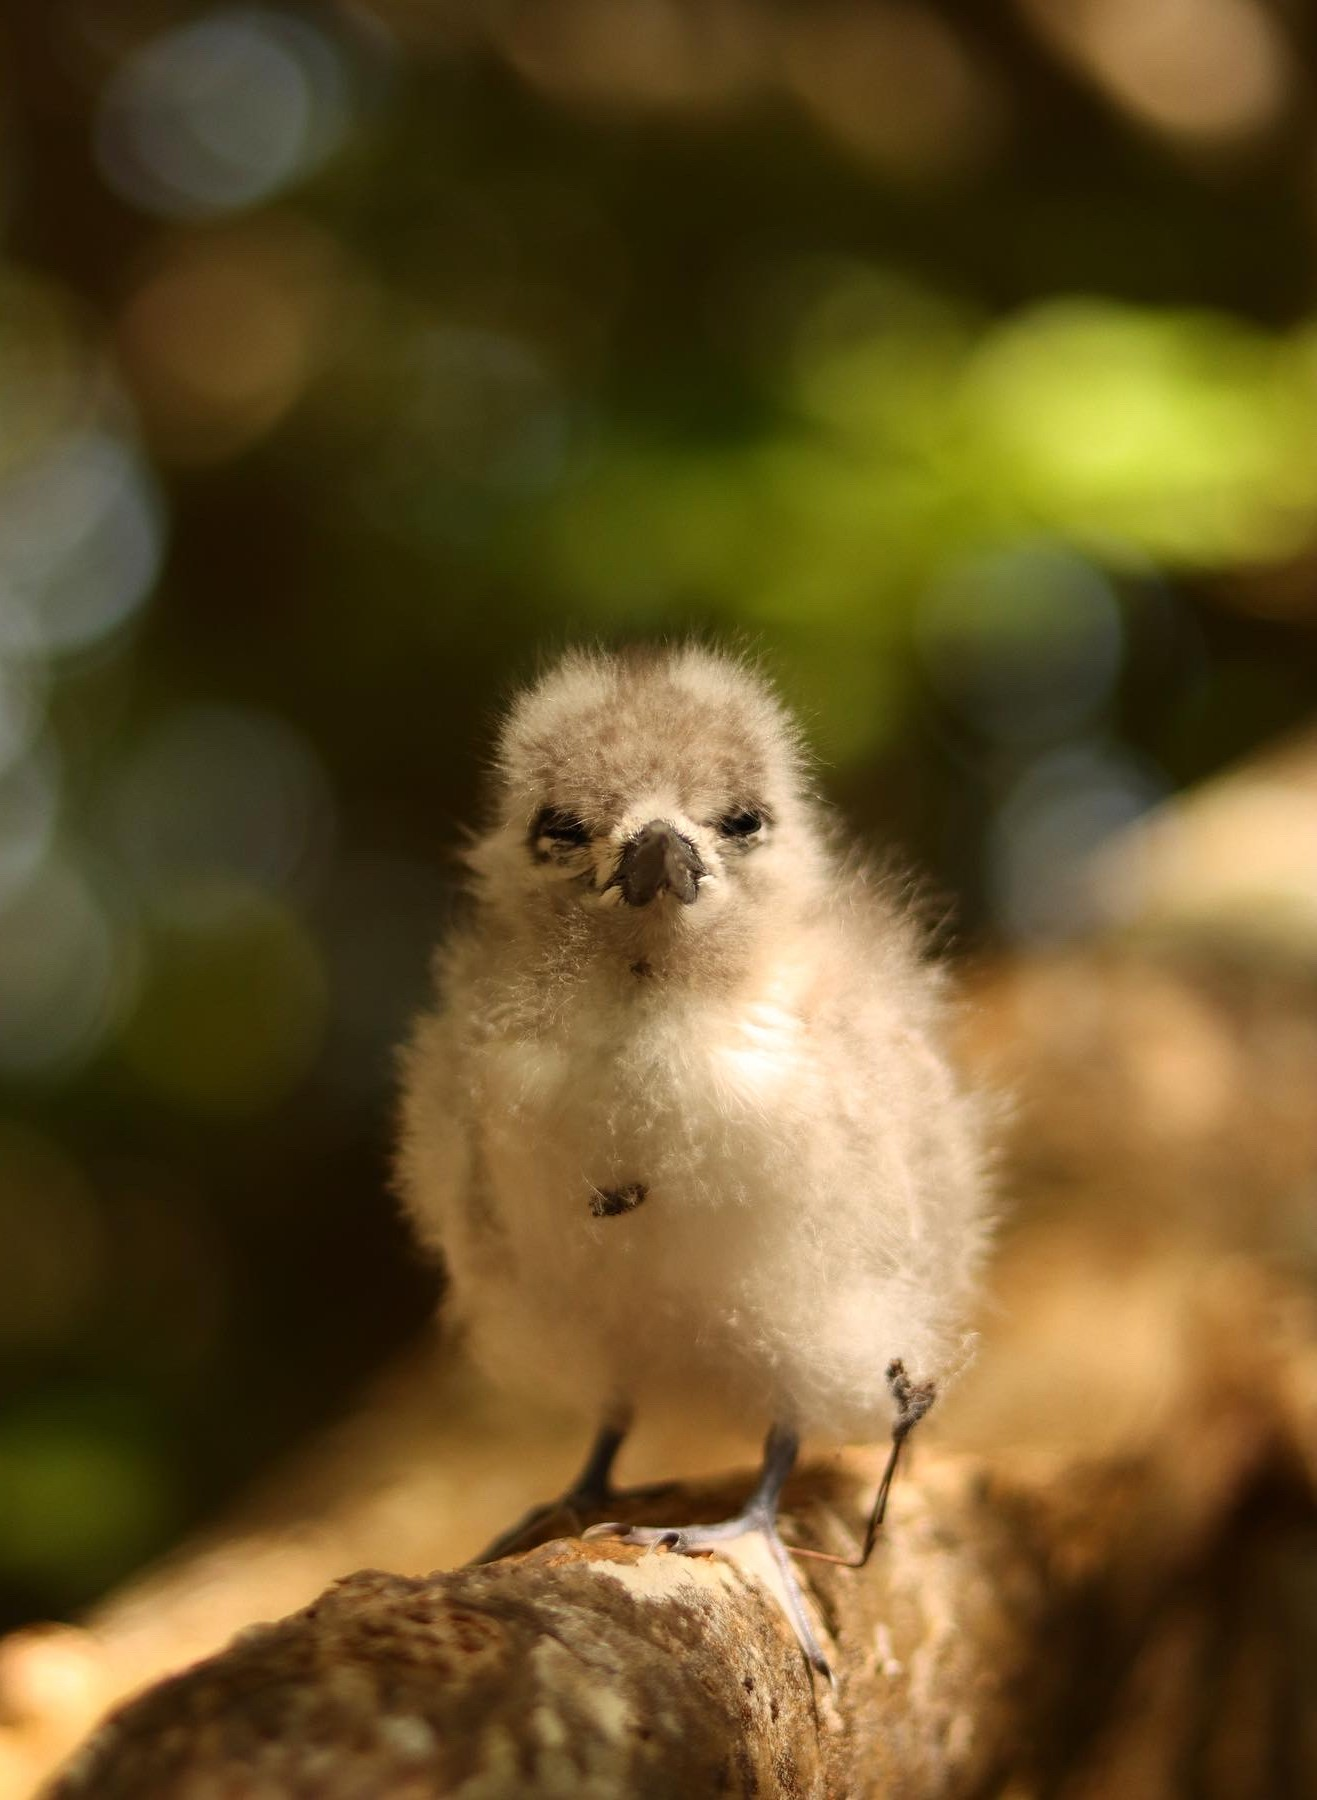
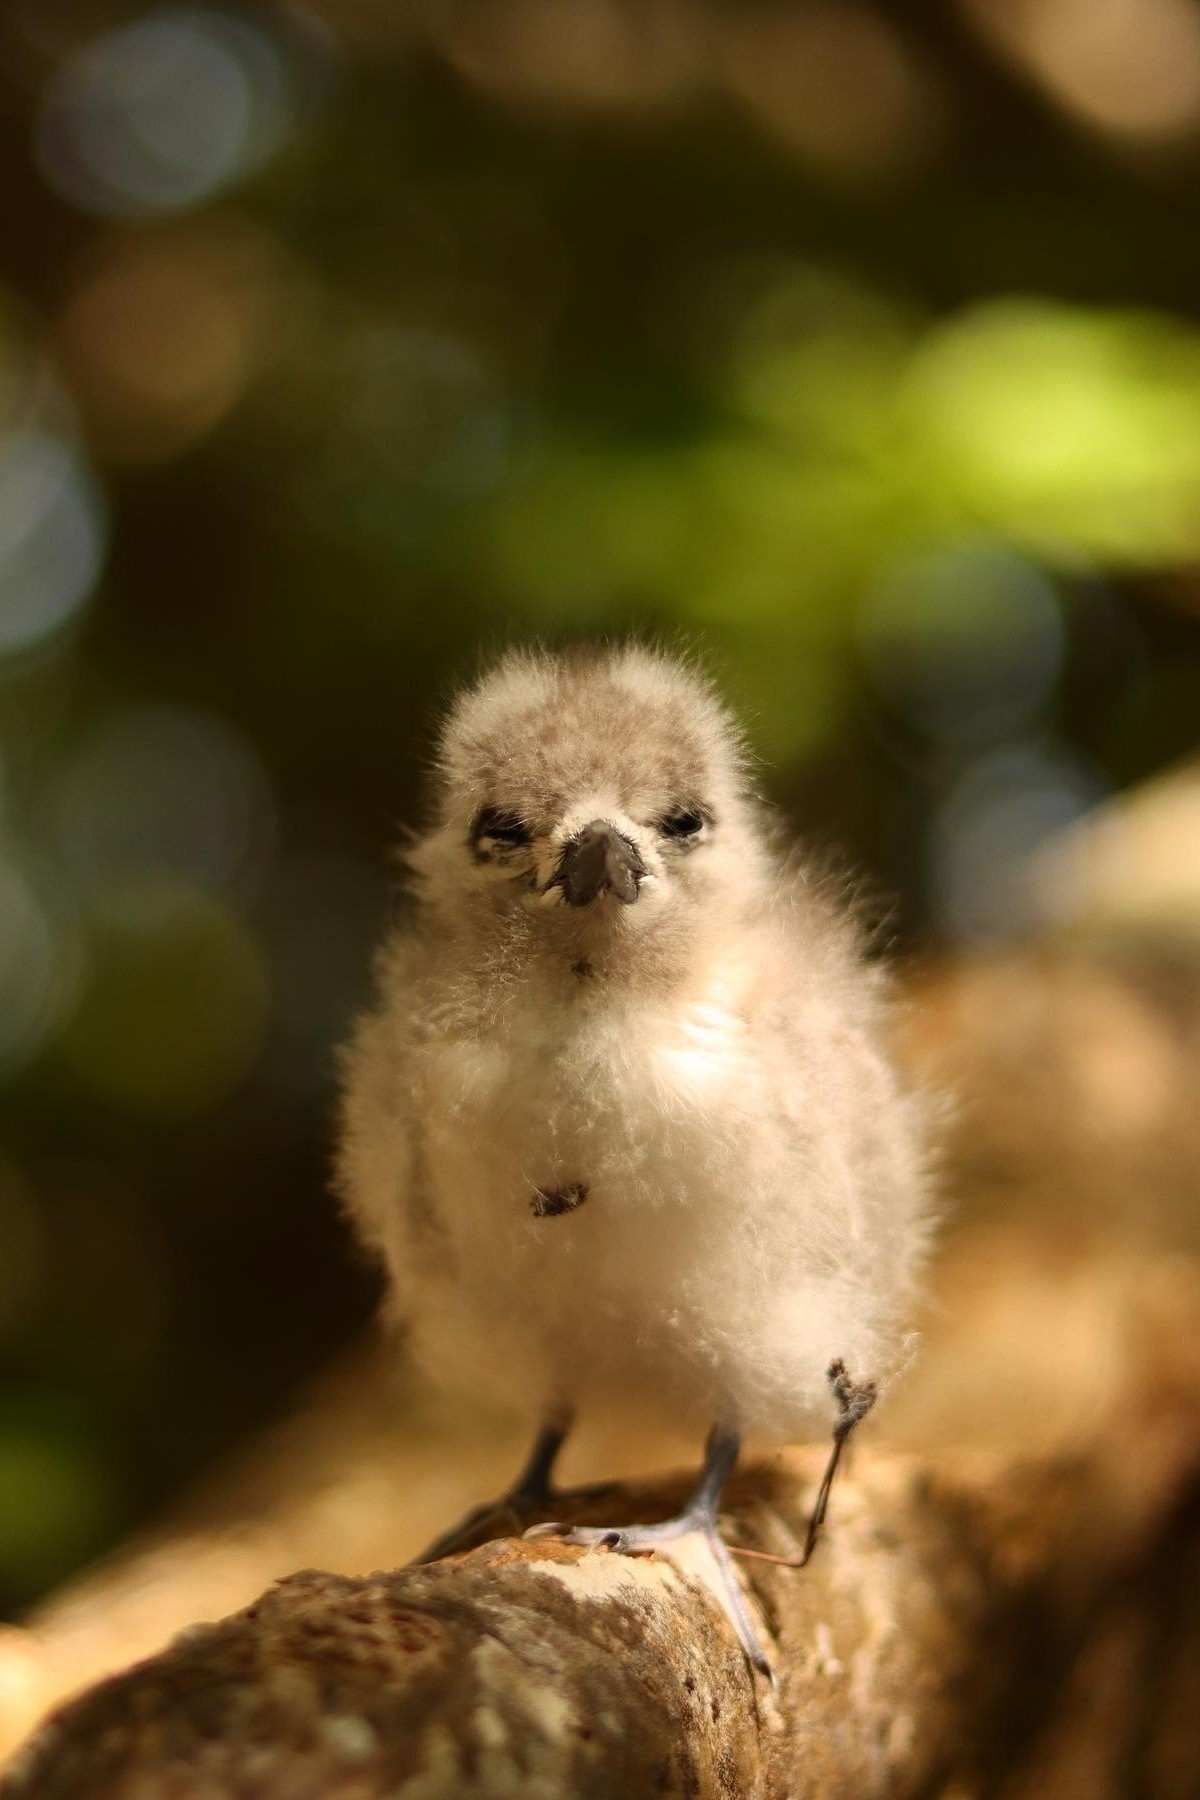
image crop+ about update

diff --git a/index.html b/index.html
@@ -24,7 +24,7 @@
 							<li><a href="#intro">Welcome test</a></li>
 							<li><a href="#one">research</a></li>
 							<li><a href="#two">photography</a></li>
-							<li><a href="#three">portfolio</a></li>
+							<li><a href="#three">About</a></li>
 						</ul>
 					</nav>
 				</div>
@@ -76,7 +76,7 @@
 				<!-- Three -->
 					<section id="three" class="wrapper style1 fade-up">
 						<div class="inner">
-							<h2>Portfolio</h2>
+							<h2>About</h2>
 							<div class="split style1">
 								<section>
 									<form method="post" action="#">
@@ -103,26 +103,21 @@
 									<ul class="contact">
 										<li>
 											<h3>Address</h3>
-											<span>12345 Somewhere Road #654<br />
-											Nashville, TN 00000-0000<br />
-											USA</span>
+											<span>B.P. 6570 - 98702 Faa’a<br />
+											Tahiti<br />
+											French Polynesia</span>
 										</li>
 										<li>
 											<h3>Email</h3>
-											<a href="#">user@untitled.tld</a>
-										</li>
-										<li>
-											<h3>Phone</h3>
-											<span>(000) 000-0000</span>
+											<a href="#">antoine.vansse@gmail.com</a>
 										</li>
 										<li>
 											<h3>Social</h3>
 											<ul class="icons">
 												<li><a href="#" class="icon brands fa-twitter"><span class="label">Twitter</span></a></li>
-												<li><a href="#" class="icon brands fa-facebook-f"><span class="label">Facebook</span></a></li>
 												<li><a href="#" class="icon brands fa-github"><span class="label">GitHub</span></a></li>
 												<li><a href="#" class="icon brands fa-instagram"><span class="label">Instagram</span></a></li>
-												<li><a href="#" class="icon brands fa-linkedin-in"><span class="label">LinkedIn</span></a></li>
+												<li><a href="#" class="icon brands fa-linkedin-in"><span class="label">Orcid</span></a></li>
 											</ul>
 										</li>
 									</ul>

diff --git a/photography.html b/photography.html
@@ -43,13 +43,16 @@
 								<div class="box alt">
 									<div class="row gtr-uniform">
 										<div class="col-12"><span class="image fit"><img src="images/splash.jpg" alt="" /></span></div>
-										<div class="col-4"><span class="image fit"><img src="images/cygneau.jpg" alt="" /></span></div>
+										<div class="col-4"><span class="image fit"><img src="images/WTCHICK.JPG" alt="" /></span></div>
 										<div class="col-4"><span class="image fit"><img src="images/lib.jpg" alt="" /></span></div>
 										<div class="col-4"><span class="image fit"><img src="images/berg.jpg" alt="" /></span></div>
 										<div class="col-6"><span class="image fit"><img src="images/WT.jpg" alt="" /></span></div>
 										<div class="col-6"><span class="image fit"><img src="images/nudi.jpg" alt="" /></span></div>
 										<div class="col-6"><span class="image fit"><img src="images/manta.jpg" alt="" /></span></div>
 										<div class="col-6"><span class="image fit"><img src="images/dolphin.jpg" alt="" /></span></div>
+										<div class="col-6"><span class="image fit"><img src="images/nemo.jpg" alt="" /></span></div>
+										<div class="col-6"><span class="image fit"><img src="images/blaireau.jpg" alt="" /></span></div>
+
 									</div>
 								</div>
 								<h3>Left &amp; Right</h3>

diff --git a/assets/css/main.css b/assets/css/main.css
@@ -115,7 +115,7 @@ input, select, textarea {
 /* Type */
 
 	body, input, select, textarea {
-		color: rgba(66, 66, 66, 0.55);
+		color: rgba(63, 62, 62, 0.55);
 		font-family: Arial, Helvetica, sans-serif;
 		font-size: 16.5pt;
 		font-weight: normal;
